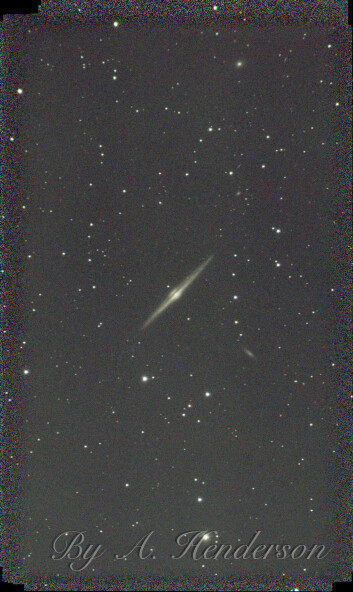
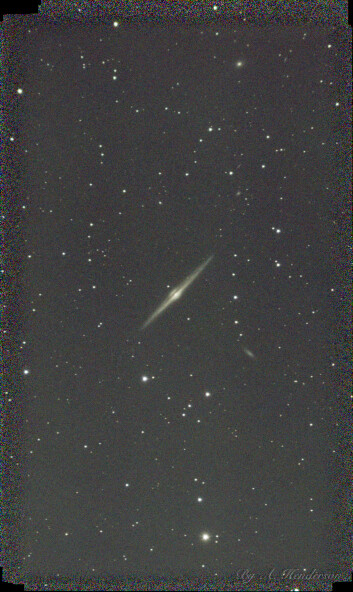
Fix double watermark + broken Pleiades mask
- Remove the HTML .media-watermark text overlay from every hero — the jpg
  already carries a baked-in watermark, so it was doubling up (obvious on
  NGC 4565, whose small source made the baked one oversized).
- Regenerate NGC 4565 media with a proportionate single watermark.
- Replace the unreplaced url("__PLEIADES__") mask left over from the mockup
  with a real assets/pleiades.png (the masthead asterism was a blue block).

Claude-Session: https://claude.ai/code/session_01L43oiiHvsTEoQGLz6MUgkr

Changed region(s): [[0.4986, 0.8818, 0.9348, 1.0], [0.1246, 0.8818, 0.2805, 0.973], [0.3739, 0.8818, 0.4363, 0.9426]]

diff --git a/assets/app.js b/assets/app.js
@@ -119,7 +119,6 @@
           '<span class="media-slot"></span>' +
           '<span class="media-zoom" aria-hidden="true"><span class="glyph">&#10530;</span> Full resolution</span></a>' +
         '<button class="media-info" type="button" aria-haspopup="dialog"><span class="glyph" aria-hidden="true">i</span> Info</button>' +
-        '<figcaption class="media-watermark" aria-hidden="true">By A. Henderson</figcaption>' +
       "</figure>" +
       '<div class="hpod-caption"><p class="hpod-title">' + esc(im.title) + "</p>" +
         '<p class="hpod-meta">Captured ' + esc(im.captured) + " · " + esc(im.acquisition.scope) +
@@ -267,7 +266,6 @@
         '<a class="media-link" href="' + im.media.full + '" target="_blank" rel="noopener noreferrer" aria-label="Open the full-resolution image">' +
           '<span class="media-slot"></span>' +
           '<span class="media-zoom" aria-hidden="true"><span class="glyph">&#10530;</span> Full resolution</span></a>' +
-        '<figcaption class="media-watermark" aria-hidden="true">By A. Henderson</figcaption>' +
       "</div>" +
       '<div class="pn-bar">' +
         '<a href="' + (prev ? "#/image/" + prev : "#") + '"' + (prev ? "" : ' aria-disabled="true"') + ">&larr; Previous</a>" +
@@ -308,7 +306,7 @@
         '<p class="detail-prose" style="margin-top:0.9rem">' + esc(t.description) + "</p></div>" +
       '<div class="img-hero">' +
         '<a class="media-link" href="#/image/' + best.id + '" aria-label="Open the current best image page"><span class="media-slot"></span></a>' +
-        '<figcaption class="media-watermark" aria-hidden="true">By A. Henderson</figcaption></div>' +
+        '</div>' +
       '<p class="detail-links"><a href="#/image/' + best.id + '">&rarr; ' + esc(best.revision) + ", captured " + esc(best.captured) + "</a></p>" +
       strip;
     V.target.querySelector(".media-slot").replaceWith(img(best.media.web, best.title));
@@ -326,7 +324,7 @@
       '<p class="detail-sub">' + esc(s.date) + " · " + esc(s.location) + " · " + esc(s.conditions) + "</p>" +
       '<div class="img-hero">' +
         '<a class="media-link" href="' + (hero ? hero.media.full : "#") + '" target="_blank" rel="noopener noreferrer" aria-label="Open the full-resolution image"><span class="media-slot"></span></a>' +
-        '<figcaption class="media-watermark" aria-hidden="true">By A. Henderson</figcaption></div>' +
+        '</div>' +
       '<div class="detail-prose" style="margin-top:1.2rem">' + (s.body_html || "") + "</div>" +
       '<p class="frames-h">Frames from this session</p><div class="grid"></div>' +
       '<div class="acq"><h3>Acquisition &middot; session</h3><dl>' +

diff --git a/assets/styles.css b/assets/styles.css
@@ -181,13 +181,6 @@ main { padding-top: 2.25rem; padding-bottom: 3rem; }
 .media-zoom .glyph { font-family: "Exo 2", sans-serif; font-size: 0.85rem; }
 .hpod-frame:hover .media-zoom, .img-hero:hover .media-zoom,
 .media-link:focus-visible .media-zoom { opacity: 1; }
-.media-watermark {
-  position: absolute; right: 0.95rem; bottom: 0.7rem;
-  font-family: "Snell Roundhand", "Apple Chancery", "Segoe Script", cursive;
-  font-size: clamp(0.85rem, 2.1vw, 1.1rem);
-  color: rgba(238,238,238,0.72); text-shadow: 0 1px 3px rgba(0,0,0,0.6);
-  pointer-events: none;
-}
 .media-info {
   position: absolute; right: 0.7rem; top: 0.7rem;
   display: inline-flex; align-items: center; gap: 0.4rem;
